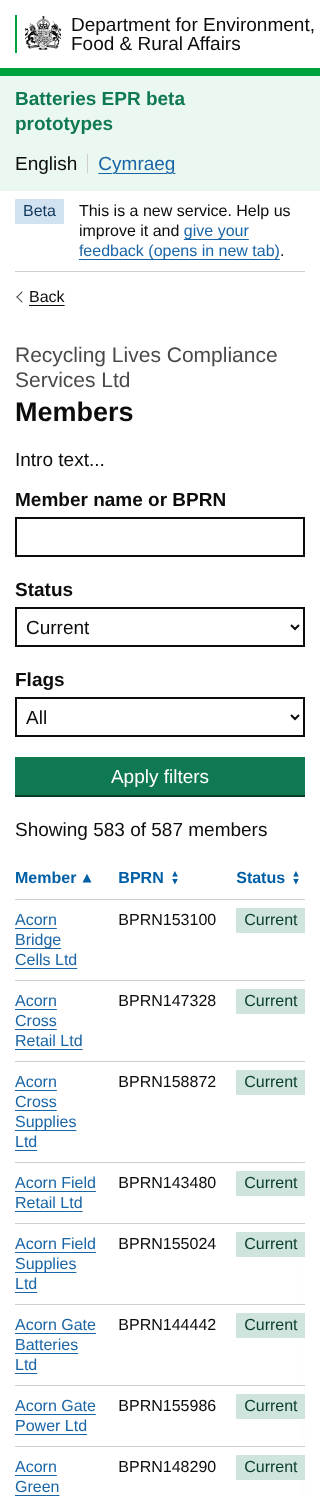
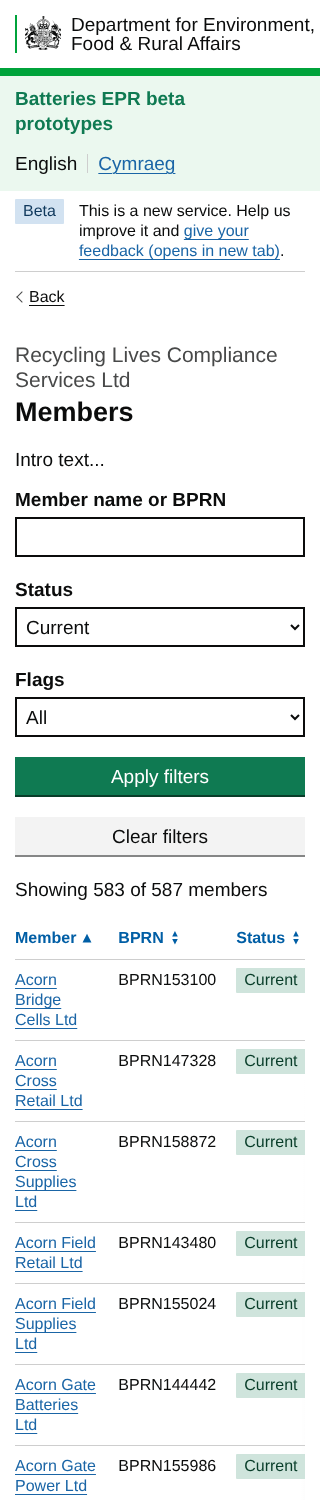
EB-326 full: Clear filters always shown, Outstanding, filters fit on one line on desktop
Claude-Session: https://claude.ai/code/session_014pBrKbgm5Jfdzkw7drhM9g

diff --git a/app/views/changes/add-members-page.html b/app/views/changes/add-members-page.html
@@ -22,7 +22,7 @@
 <p class="govuk-body"><strong>Brief version: everything on one page</strong></p>
 <ul class="govuk-list govuk-list--bullet"><li>Every member, current and former, with no filters</li><li>Simple, but finding one producer among 600 means scrolling or using the browser's find. Research will tell us if that's good enough</li></ul>
 <p class="govuk-body"><strong>Full version: filters</strong></p>
-<ul class="govuk-list govuk-list--bullet"><li>Based on the <a href="https://design-patterns.service.justice.gov.uk/patterns/filter-a-list" class="govuk-link" rel="noreferrer noopener" target="_blank">MOJ filter a list pattern (opens in new tab)</a>, which DfE also recommends after <a href="https://dfedigital.blog.gov.uk/2025/03/03/applying-filters-consistently-in-dfe" class="govuk-link" rel="noreferrer noopener" target="_blank">looking at filters across government (opens in new tab)</a></li><li>Member name or BPRN (free text), to find one member quickly. It's the widest field, so long names fit, and full width on a phone</li><li>Status: current, former or all. Current by default, so former members don't pad the list</li><li>Flags: all, or outstanding flags only</li><li>Clear filters, a secondary button, when the filters aren't the defaults. It sits with Apply filters in a GOV.UK button group, so the two stay together when the row wraps</li><li>An Apply filters button: the page only reloads when they choose to, as <a href="https://w3c.github.io/wcag/understanding/on-input.html" class="govuk-link" rel="noreferrer noopener" target="_blank">WCAG 3.2.2 On Input (opens in new tab)</a> asks, and it works without JavaScript</li><li>A line saying what's showing, for example &quot;Showing 3 of 587 members&quot;</li></ul>
+<ul class="govuk-list govuk-list--bullet"><li>Based on the <a href="https://design-patterns.service.justice.gov.uk/patterns/filter-a-list" class="govuk-link" rel="noreferrer noopener" target="_blank">MOJ filter a list pattern (opens in new tab)</a>, which DfE also recommends after <a href="https://dfedigital.blog.gov.uk/2025/03/03/applying-filters-consistently-in-dfe" class="govuk-link" rel="noreferrer noopener" target="_blank">looking at filters across government (opens in new tab)</a></li><li>Member name or BPRN (free text), to find one member quickly. It takes the space that's left, so all the filters and buttons fit on one line on a desktop, and it's full width on a phone</li><li>Status: current, former or all. Current by default, so former members don't pad the list</li><li>Flags: all, or outstanding</li><li>Clear filters, a secondary button, always there so nothing appears or jumps. It sits with Apply filters in a GOV.UK button group, so the two stay together when the row wraps</li><li>An Apply filters button: the page only reloads when they choose to, as <a href="https://w3c.github.io/wcag/understanding/on-input.html" class="govuk-link" rel="noreferrer noopener" target="_blank">WCAG 3.2.2 On Input (opens in new tab)</a> asks, and it works without JavaScript</li><li>A line saying what's showing, for example &quot;Showing 3 of 587 members&quot;</li></ul>
 <p class="govuk-body"><strong>Why there's no pagination</strong></p>
 <ul class="govuk-list govuk-list--bullet"><li>The <a href="https://design-system.service.gov.uk/components/pagination" class="govuk-link" rel="noreferrer noopener" target="_blank">GOV.UK pagination guidance (opens in new tab)</a> says to only split a list into pages if it makes the service faster or easier to use: when one page would be slow to load, or when most people only need the first page. 600 short rows load quickly, and regulators need the whole list, not just the first page</li><li>Sorting and pagination don't work together in the browser: the MOJ sortable table would only sort the rows on the page you're on, which would be wrong. On one page, sorting covers every member</li><li>The full version's filters cut the list down, so people don't have to scroll through hundreds of rows</li><li>If the real data is slow, the fallback is pagination with sorting done on the server (column headers as links that reload the page in the new order, which also works without JavaScript). GOV.UK says filters and sorting must then apply to the whole list, not just one page</li></ul>
 <p class="govuk-body"><strong>Prototype only</strong></p>
@@ -52,10 +52,10 @@
 <img src="/public/images/changes/add-members-page/after--members-full-1020-pixels.png" alt="Full version, desktop (1020 pixels wide), top of the page" class="app-change-screenshot">
 </div>
 </div>
-<h2 class="govuk-heading-m">Full version, filtered by name, desktop (1020 pixels wide)</h2>
+<h2 class="govuk-heading-m">Full version, filtered, desktop (1020 pixels wide)</h2>
 <div class="govuk-grid-row">
 <div class="govuk-grid-column-two-thirds">
-<img src="/public/images/changes/add-members-page/after--members-full-filtered-1020-pixels.png" alt="Full version, filtered by name, desktop (1020 pixels wide)" class="app-change-screenshot">
+<img src="/public/images/changes/add-members-page/after--members-full-filtered-1020-pixels.png" alt="Full version, filtered, desktop (1020 pixels wide)" class="app-change-screenshot">
 </div>
 </div>
 <h2 class="govuk-heading-m">Full version, 320 pixels wide, top of the page</h2>

diff --git a/app/views/regulator/pom-submission/members-full.html b/app/views/regulator/pom-submission/members-full.html
@@ -10,12 +10,13 @@
   - Member name or BPRN: free text, finds one member quickly
   - Status: Current (the default, so former members don't pad the list),
     Former or All
-  - Flags: All, or Outstanding flags only
-  - Clear filters (a secondary button, only when the filters aren't the
-    defaults): back to the page with no filters. It sits with Apply filters
+  - Flags: All, or Outstanding
+  - Clear filters (a secondary button, always there so nothing jumps): back
+    to the page with the default filters. It sits with Apply filters
     in a GOV.UK button group, so the two stay together when the row wraps
-  - Member name or BPRN grows to fill its line (app-filters__grow), so long
-    names fit, and it's full width on a phone
+  - Member name or BPRN takes the space that's left on the line
+    (app-filters__grow), so everything fits on one line on a desktop, and
+    it's full width on a phone
   - Apply filters: a plain form (GET) with a button, so it works without
     JavaScript and the page doesn't reload while someone is choosing
     (WCAG 3.2.2)
@@ -85,12 +86,10 @@
         {{ govukSelect({ id: "status", name: "status", label: { text: words.statusLabel, classes: "govuk-label--s" }, classes: "govuk-!-width-full", items: statusItems }) }}
         {{ govukSelect({ id: "flags", name: "flags", label: { text: words.flagsLabel, classes: "govuk-label--s" }, classes: "govuk-!-width-full", items: flagItems }) }}
         {# Apply and Clear stay together in a GOV.UK button group. Clear filters
-           only shows when the filters aren't the defaults #}
+           is always there, so nothing appears or disappears #}
         <div class="govuk-button-group">
           {{ govukButton({ text: words.applyFiltersButton }) }}
-          {% if filters.search or filters.status != "current" or filters.flags != "all" %}
-            {{ govukButton({ text: words.clearFiltersButton, href: formAction, classes: "govuk-button--secondary" }) }}
-          {% endif %}
+          {{ govukButton({ text: words.clearFiltersButton, href: formAction, classes: "govuk-button--secondary" }) }}
         </div>
       </div>
     </form>

diff --git a/app/assets/sass/application.scss b/app/assets/sass/application.scss
@@ -80,11 +80,11 @@ $govuk-font-family-print: var(--app-font-family-print, sans-serif);
   }
 
   // A free-text field (app-filters__grow on its form group) takes the space
-  // that's left on its line, so long names fit. From tablet up: on a phone
+  // that's left on its line, so the whole row fits on one line on a desktop. From tablet up: on a phone
   // everything is full width anyway
   @include govuk-media-query($from: tablet) {
     .app-filters__grow {
-      flex: 1 1 20em;
+      flex: 1 1 10em;
     }
   }
 }

diff --git a/app/content/regulator/members-full.md b/app/content/regulator/members-full.md
@@ -32,7 +32,7 @@ All
 Flags
 
 ## Outstanding flags only (filter option)
-Outstanding flags only
+Outstanding
 
 ## Apply filters button
 Apply filters
